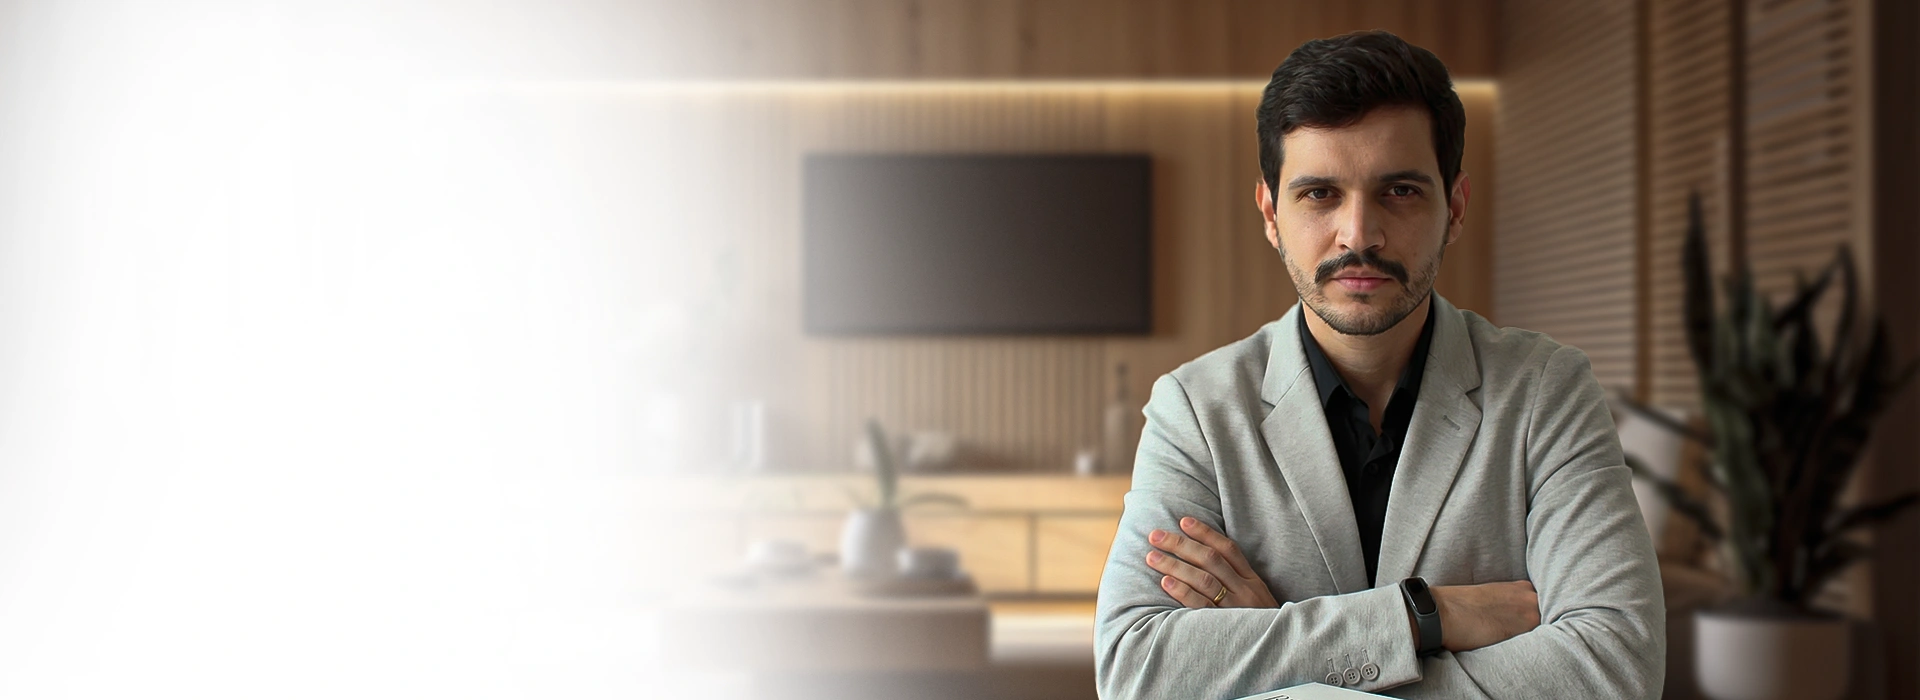
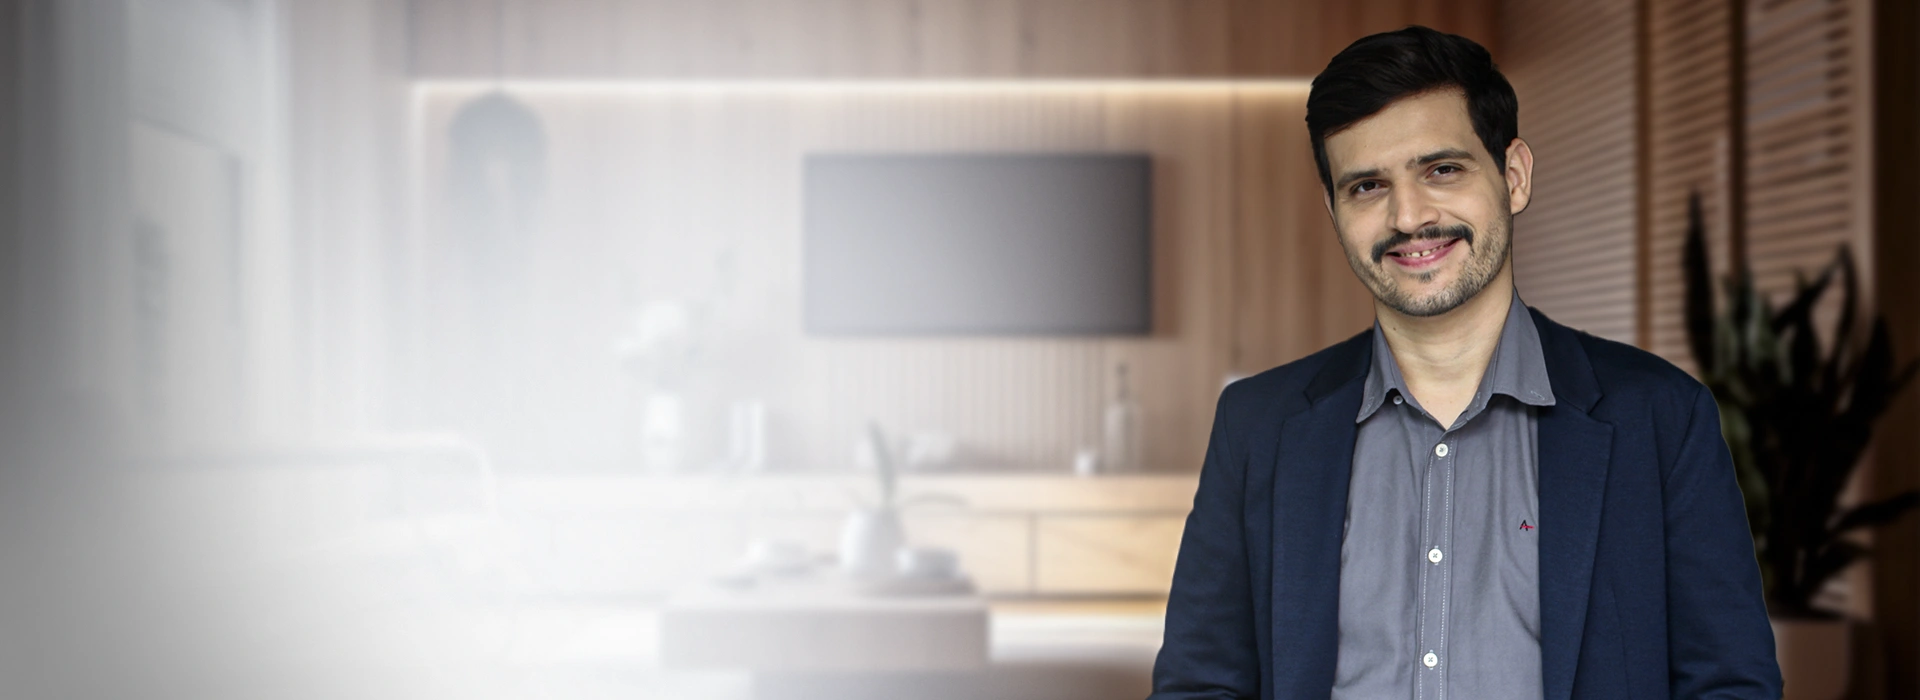
feat: ajusta hero e navbar para telas abaixo de 900px
- Hero: banner mobile em telas < 900px, altura +200px no mobile, conteúdo no topo no mobile e centralizado no desktop
- Navbar: menu hambúrguer e drawer em telas < 900px (antes era < 768px)
- Novas imagens: hero desktop v5 e hero mobile v2

diff --git a/src/components/layout/Navbar.tsx b/src/components/layout/Navbar.tsx
@@ -53,7 +53,7 @@ export function Navbar() {
           </Link>
 
           {/* Desktop — links de navegação */}
-          <nav className="hidden md:flex items-center gap-7">
+          <nav className="hidden min-[900px]:flex items-center gap-7">
             {navLinks.map((link) => (
               <a
                 key={link.href}
@@ -66,7 +66,7 @@ export function Navbar() {
           </nav>
 
           {/* Desktop — CTA */}
-          <div className="hidden md:block shrink-0">
+          <div className="hidden min-[900px]:block shrink-0">
             <CTAButton
               href="https://api.whatsapp.com/send?phone=5532984775220"
               variant="primary"
@@ -82,7 +82,7 @@ export function Navbar() {
           <button
             onClick={() => setDrawerOpen(true)}
             aria-label="Abrir menu"
-            className="p-2 hover:opacity-70 transition-opacity md:hidden"
+            className="p-2 hover:opacity-70 transition-opacity min-[900px]:hidden"
           >
             <Menu size={22} className="text-brand-blue" />
           </button>
@@ -93,7 +93,7 @@ export function Navbar() {
       {/* Overlay mobile */}
       {drawerOpen && (
         <div
-          className="fixed inset-0 z-40 bg-brand-dark/30 backdrop-blur-sm md:hidden"
+          className="fixed inset-0 z-40 bg-brand-dark/30 backdrop-blur-sm min-[900px]:hidden"
           onClick={() => setDrawerOpen(false)}
         />
       )}
@@ -101,7 +101,7 @@ export function Navbar() {
       {/* Offcanvas mobile */}
       <nav
         className={cn(
-          'fixed top-0 right-0 bottom-0 z-50 w-72 md:hidden',
+          'fixed top-0 right-0 bottom-0 z-50 w-72 min-[900px]:hidden',
           'bg-white/15 backdrop-blur-xl',
           'border-l border-white/20',
           'flex flex-col pt-20 px-8 gap-2',

diff --git a/src/components/sections/Hero.tsx b/src/components/sections/Hero.tsx
@@ -5,14 +5,14 @@ import { SectionLabel } from '@/components/ui/SectionLabel'
 
 export function Hero() {
   return (
-    <section className="relative w-full min-h-[520px] h-[90vh] max-h-[860px] overflow-hidden">
+    <section className="relative w-full min-h-[720px] min-[900px]:min-h-[520px] h-[90vh] max-h-[860px] overflow-hidden">
 
       {/* Background — desktop */}
       <Image
         src="/hero-desktop-v3.webp"
         alt="Dr. Matheus Nehrer"
         fill
-        className="object-cover hidden md:block"
+        className="object-cover hidden min-[900px]:block"
         priority
       />
       {/* Background — mobile */}
@@ -20,15 +20,15 @@ export function Hero() {
         src="/hero-mobile.webp"
         alt="Dr. Matheus Nehrer"
         fill
-        className="object-cover md:hidden"
+        className="object-cover min-[900px]:hidden"
         priority
       />
 
       {/* Copy */}
-      <div className="relative h-full w-full flex items-start pt-16 md:items-center md:pt-0">
+      <div className="relative h-full w-full flex items-start pt-16 min-[900px]:items-center min-[900px]:pt-0">
         <div className="w-full lg:max-w-[1000px] xl:max-w-[1100px] mx-auto px-6">
           <div className="space-y-6 max-w-md">
-            <h1 className="font-sora font-extrabold text-4xl md:text-5xl lg:text-6xl text-brand-dark leading-tight whitespace-nowrap">
+            <h1 className="font-sora font-extrabold text-4xl md:text-5xl lg:text-6xl text-brand-dark leading-tight">
               Dr. Matheus Nehrer
             </h1>
 